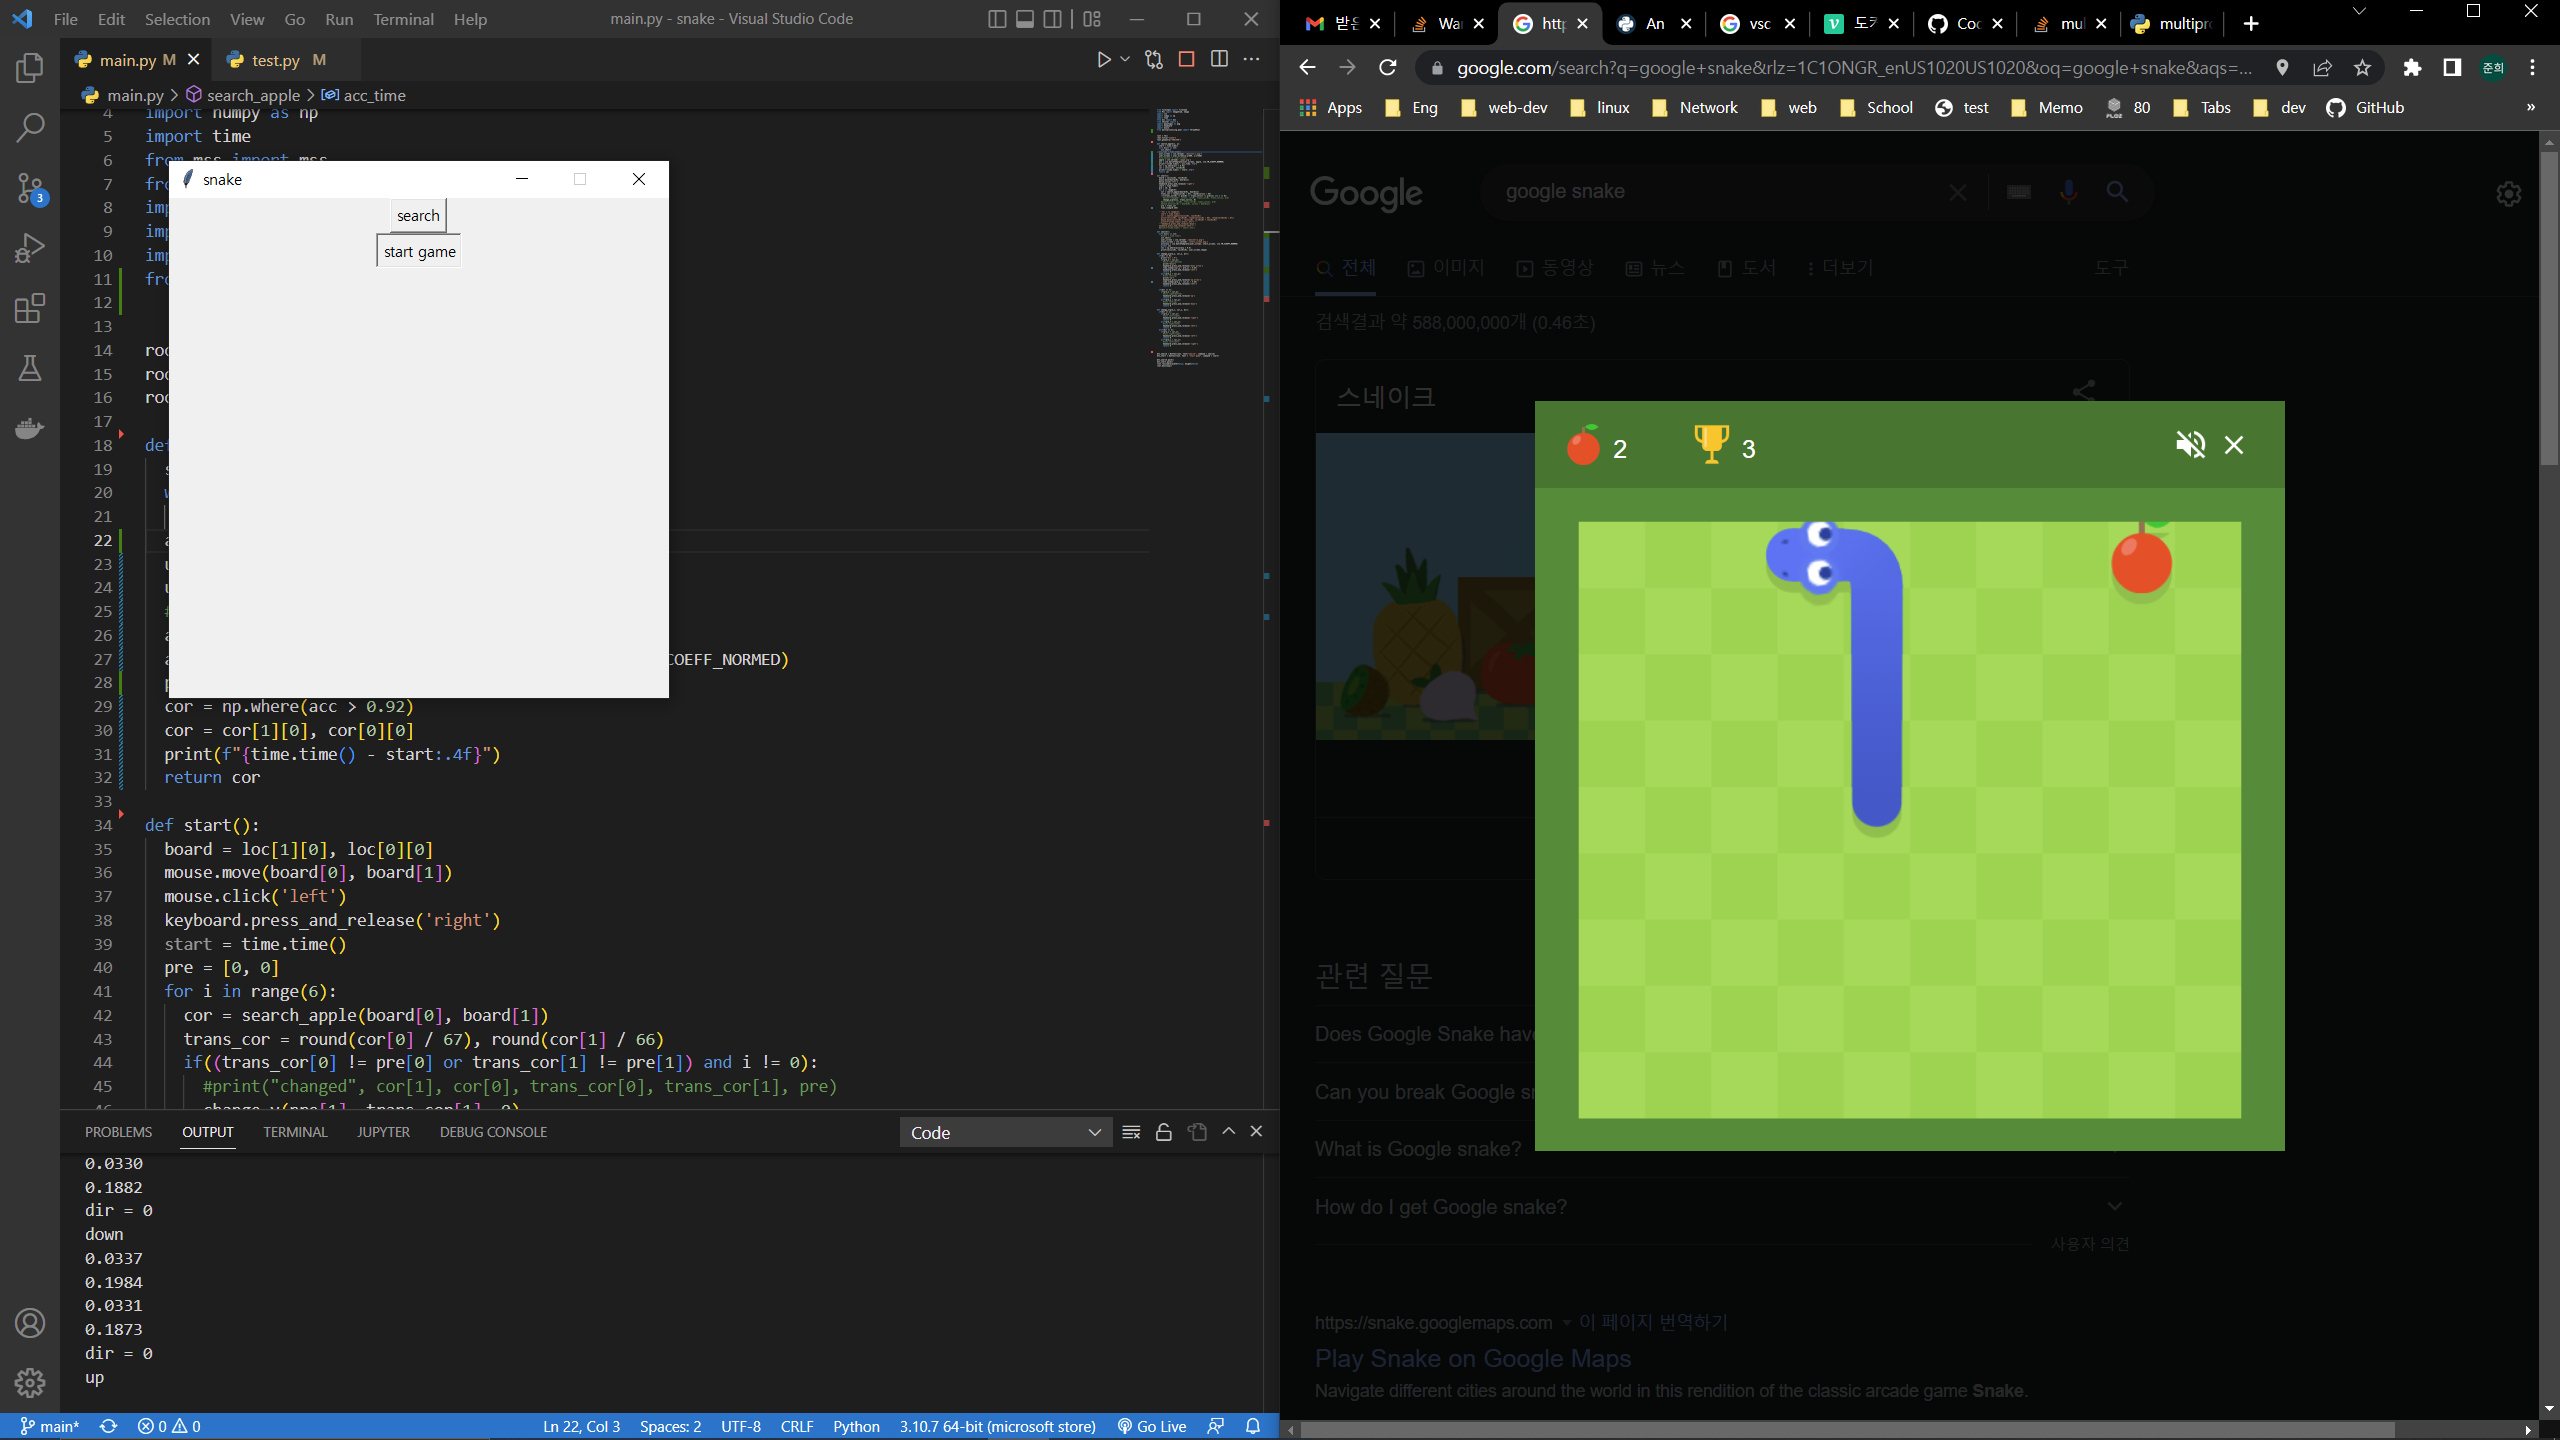
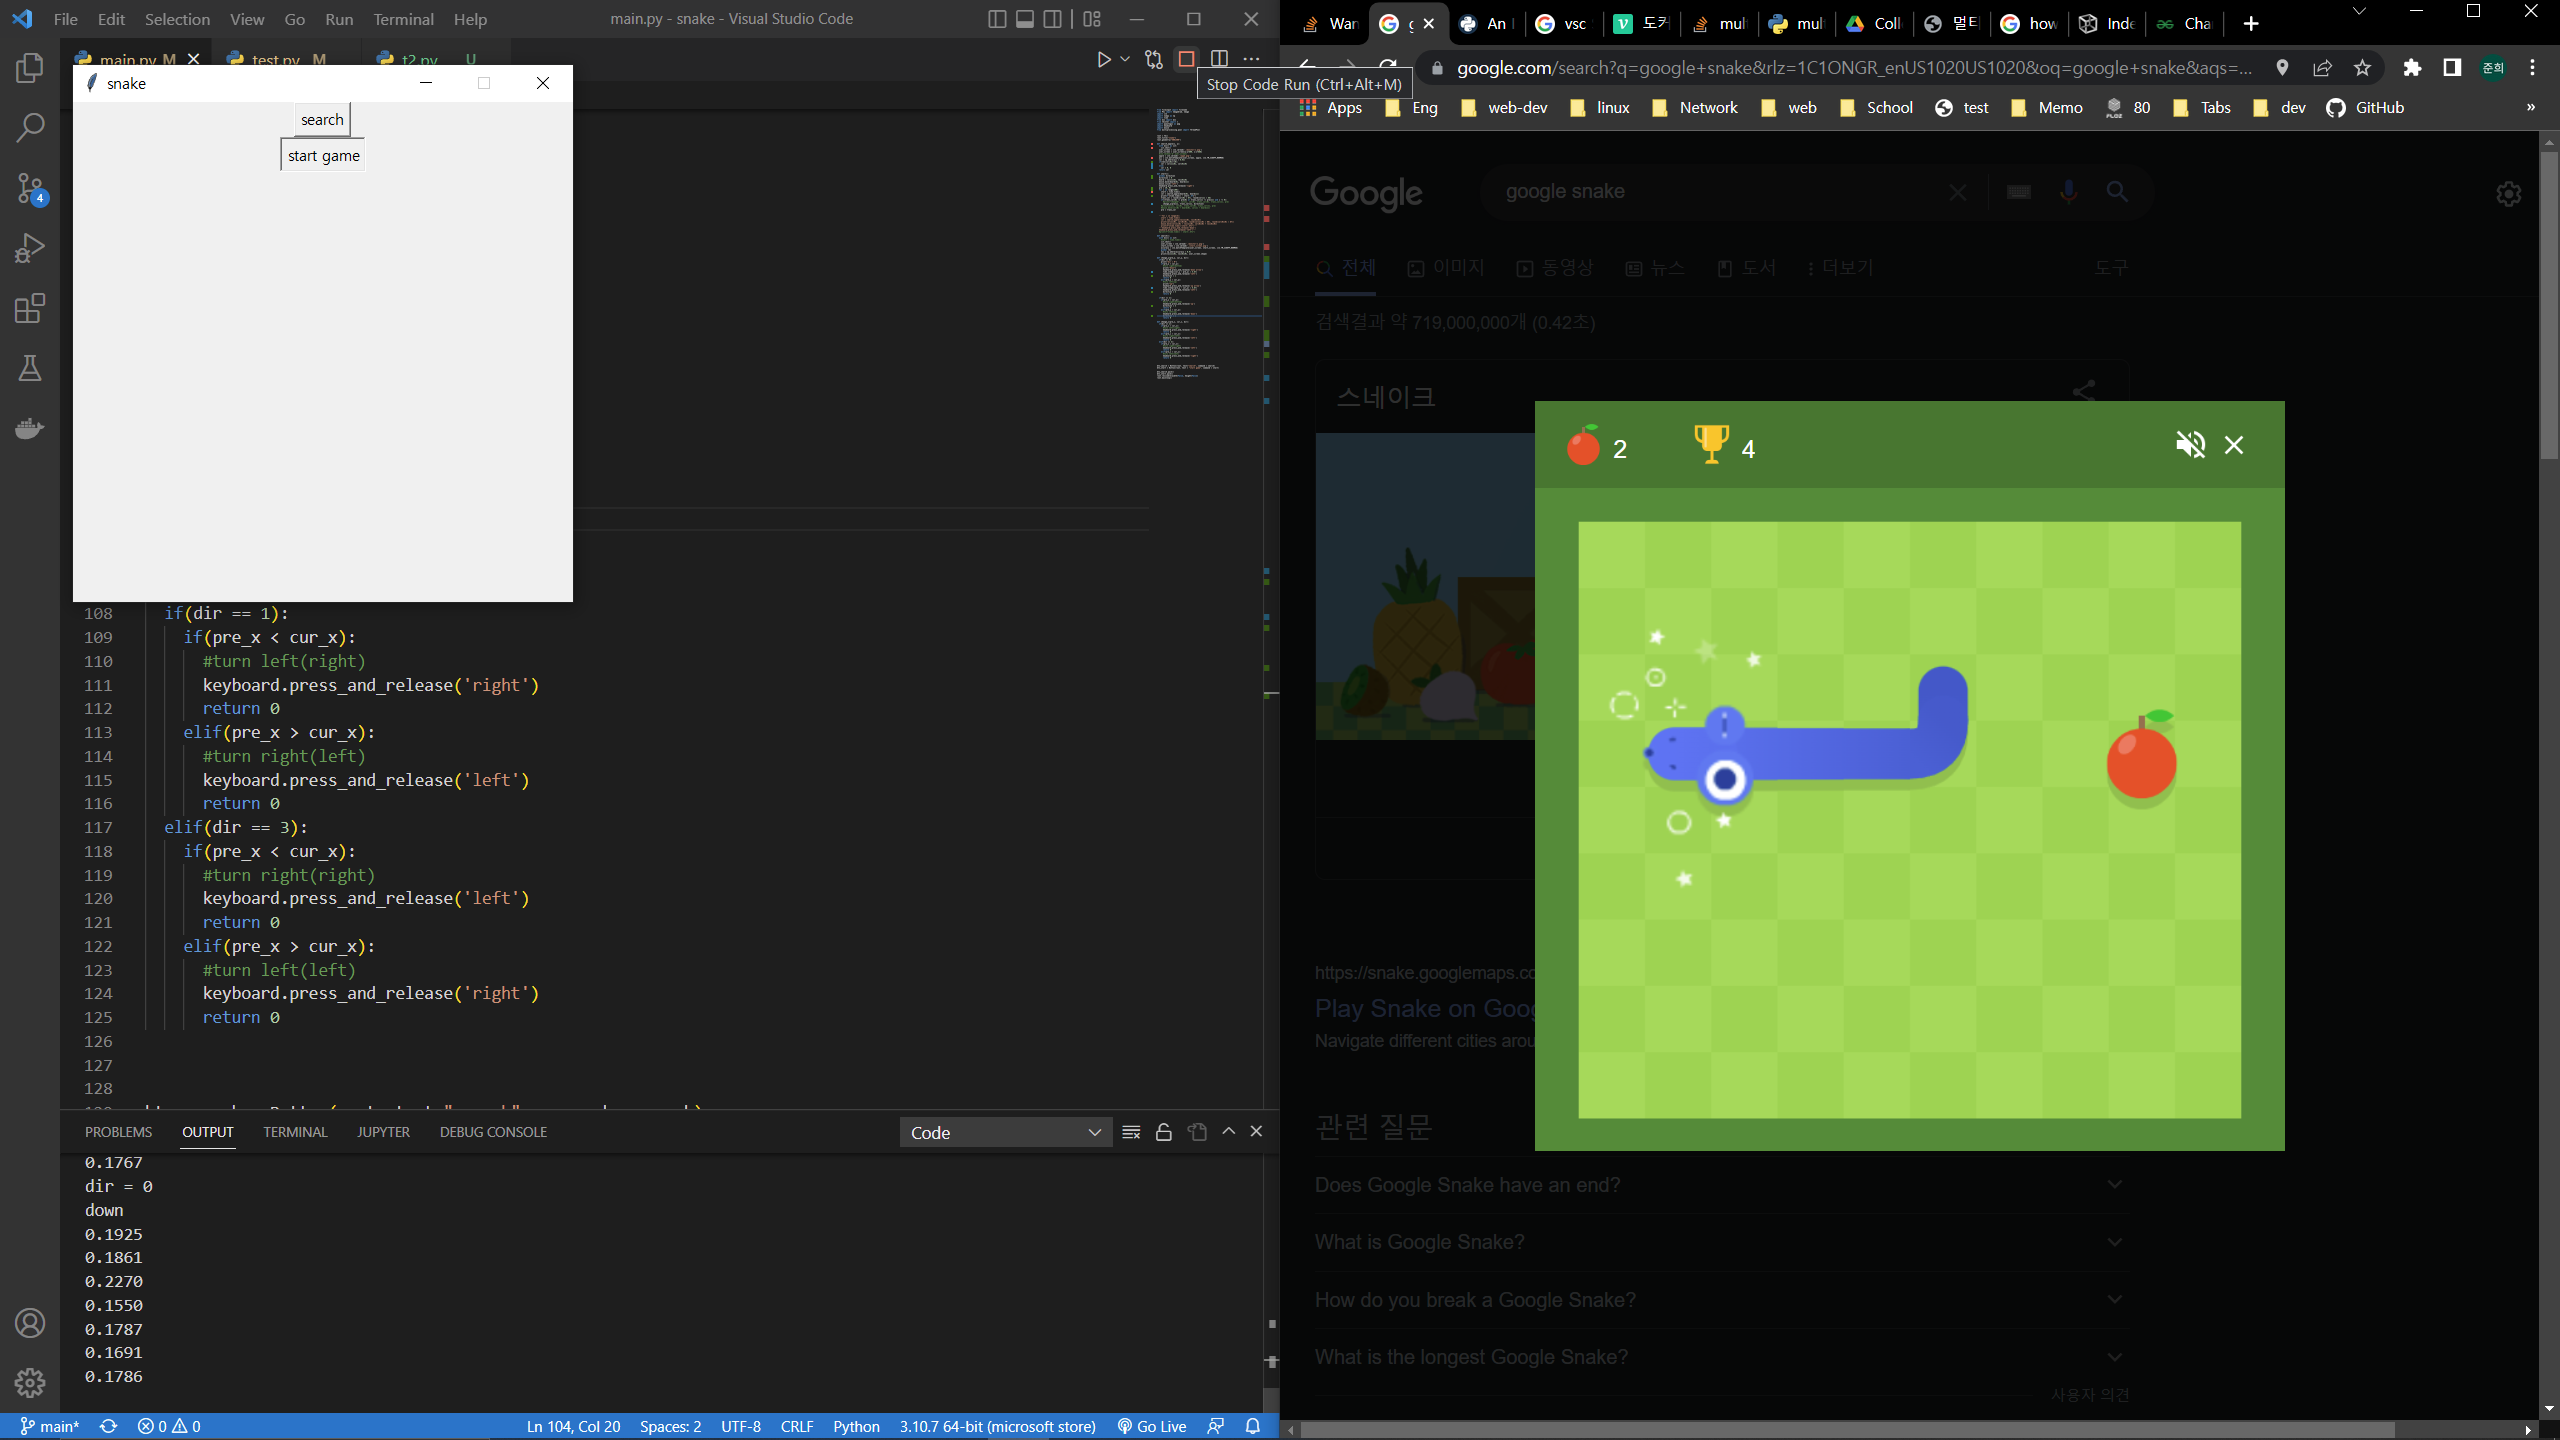
cor error fixed

diff --git a/t2.py b/t2.py
@@ -9,47 +9,58 @@ import pyautogui as pag
 import keyboard
 import mouse
 from multiprocessing.pool import ThreadPool
+import threading
 
 
 root = Tk()
 root.title("snake")
 root.geometry("500x500")
 
-def search_apple(x, y):
+def screen_shot(x, y):
   with mss() as sct:
     sct.shot()
+  global user_screen
   user_screen = cv2.imread('./monitor-1.png')
-  user_screen = user_screen[y:y+600, x:x+660]
-  #cv2.imshow('d',user_screen)
+  user_screen = user_screen[y:y + 600, x:x + 660]
+
+def read_img():
+  global apple
   apple = cv2.imread('./app3.png')
+
+def search_apple(x, y):
+  thr = [0, 0]
+  thr[0] = threading.Thread(target = screen_shot, args = (x, y))
+  thr[1] = threading.Thread(target = read_img)
+
+  thr[0].start()
+  thr[1].start()
+
+  thr[0].join()
+  thr[1].join()
+  #cv2.imshow('d',user_screen)
   acc = cv2.matchTemplate(user_screen, apple, cv2.TM_CCOEFF_NORMED)
   cor = np.where(acc > 0.92)
-  if(len(cor[0])!=0):
-    cor = cor[1][0], cor[0][0]
-  else:
-    cor = 0, 0
+  cor = cor[1][0], cor[0][0]
   return cor
 
 def start():
-  global direction
-  direction = 0
   board = loc[1][0], loc[0][0]
   mouse.move(board[0], board[1])
   mouse.click('left')
   keyboard.press_and_release('right')
   pre = [0, 0]
-  for i in range(100):
+  for i in range(6):
     start = time.time()
     cor = search_apple(board[0], board[1])
     print(f"{time.time() - start:.4f}")
     trans_cor = round(cor[0] / 67), round(cor[1] / 66)
     if((trans_cor[0] != pre[0] or trans_cor[1] != pre[1]) and i != 0):
       #print("changed", cor[1], cor[0], trans_cor[0], trans_cor[1], pre)
-      change_y(pre[1], trans_cor[1], direction)
+      change_y(pre[1], trans_cor[1], 0)
     #print(cor[1], cor[0], trans_cor[0], trans_cor[1], pre)
     #mouse.move(cor[0] + board[0], cor[1] + board[1])
     pre = trans_cor
-
+    time.sleep(0.265)
 
   '''for i in range(3):
     start = time.time()
@@ -81,7 +92,6 @@ def change_y(pre_y, cur_y, dir):
       keyboard.press_and_release('down arrow')
       time.sleep((cur_y - pre_y) / 5.67)
       keyboard.press_and_release('left')
-      direction = 1
       return 0
     elif(pre_y > cur_y):
       #turn left(up)
@@ -89,19 +99,16 @@ def change_y(pre_y, cur_y, dir):
       keyboard.press_and_release('up arrow')
       time.sleep((pre_y - cur_y) / 5.67)
       keyboard.press_and_release('left')
-      direction = 3
       return 0
 
   if(dir == 2):
     if(pre_y < cur_y):
       #turn right(bottom)
       keyboard.press_and_release('up')
-      direction = 3
       return 0
     elif(pre_y > cur_y):
       #turn left(up)
       keyboard.press_and_release('down')
-      direction = 1
       return 0
 
 def change_x(pre_x, cur_x, dir):

diff --git a/test.py b/test.py
@@ -56,7 +56,6 @@ t[1] = threading.Thread(target = search_apple, args = (1578, 519))
 t[0].start()
 t[1].start()
 
-print(f"{time.time() - timer1:.4f}")
 t[0].join()
 t[1].join()
 print(f"{time.time() - timer1:.4f}")
@@ -72,7 +71,7 @@ mouse.move(accuracy()[1][0], accuracy()[0][0])"""
 
 
 #Thread pool
-timer3 = time.time()
+'''timer3 = time.time()
 pool = ThreadPool(processes=1)
 
 cor1 = pool.apply_async(search_apple, (1578, 519))
@@ -83,4 +82,17 @@ returned1 = cor1.get()
 returned2 = cor1.get()
 returned3 = cor1.get()
 print(f"{time.time() - timer3:.4}",returned1, returned2, returned3)
+
+def b():
+  global f
+  f = 'a'
+
+def a():
+
+  v =threading.Thread(target=b)
+  v.start()
+  v.join()
+  print(f)
+
+a()'''
 #mouse.move(0, 0)
